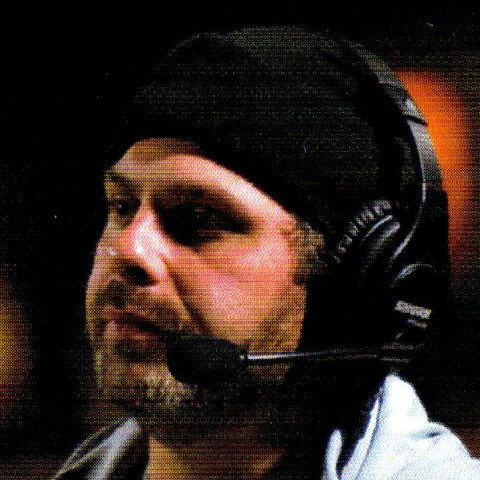
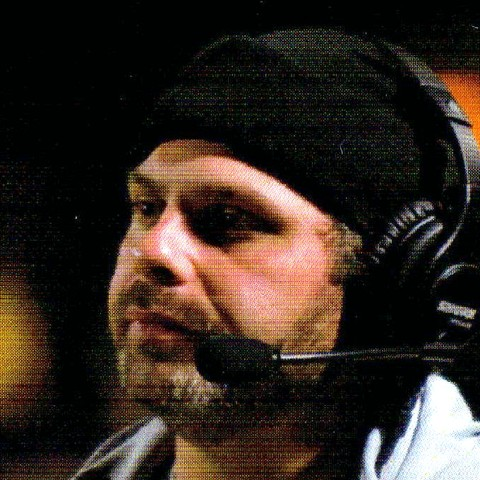
Fix coach photo crops; add Week 3 box score stats
Re-crop and re-correct Mulieri, Puleio, Stibitz, and DiStefano's headshots
on the BRHS Football hub — the first pass left eyes/face off-center at the
card's small display size, and Stibitz/DiStefano's night-game photos were
still too dark to read clearly. Recentered on the face and pushed exposure
further on the two dark ones; no elements or style added, correction only.

Also includes Week 3 (vs Hillsborough, W 40-14) box score stats in
lib/footballStats.js, sourced from NJRB's box score
(njrecordbook.com/football/game/18028/) per the file's established sourcing
pattern.

diff --git a/lib/footballStats.js b/lib/footballStats.js
@@ -19,10 +19,10 @@
 // real per-player SEASON-AGGREGATE stats for football, built from full
 // team box scores per game, the same way it already does for volleyball
 // (see VOLLEYBALL-SOURCES.md). Confirmed live and populated for the
-// 2026-27 season (2 games played) — this file's stats are now sourced
-// from NJRB's team page + its two individual game box scores
-// (njrecordbook.com/football/game/17644/ = Woodbridge, .../game/18005/ =
-// St. Joseph), not hand-curated "best line so far" or CJSR-only detail.
+// 2026-27 season — this file's stats are sourced from NJRB's team page +
+// its individual game box scores (njrecordbook.com/football/game/17644/ =
+// Woodbridge, .../game/18005/ = St. Joseph, .../game/18028/ = Hillsborough,
+// added 2026-09-14), not hand-curated "best line so far" or CJSR-only detail.
 //
 // TIER 1: every number is pulled from a published box score. NJRB is now
 // the season-aggregate source of record (full Passing/Rushing/Receiving/
@@ -58,48 +58,48 @@ export const TEAM_LEADERS_2026 = [
     category: 'Passing Yards',
     name: 'JB Baxter',
     number: 10,
-    value: '458',
-    detail: '31/57, 3 TD, 2 INT — 2 games (NJRB season total)',
+    value: '631',
+    detail: '53.5 comp%, 4 TD, 2 INT — 3 games (NJRB season total)',
     photo: '/photos/media-day-portraits/10.jpg',
   },
   {
     category: 'Rushing Yards',
     name: 'Jahmier Black',
     number: 11,
-    value: '286',
-    detail: '45 att, 5 TD, 6.4 YPC — 2 games',
+    value: '438',
+    detail: '67 att, 7 TD, 6.5 YPC — 3 games',
     photo: '/photos/media-day-portraits/11.jpg',
   },
   {
     category: 'Receiving Yards',
     name: 'Evan Woodring',
     number: 5,
-    value: '126',
-    detail: '7 rec, 1 TD — 2 games',
+    value: '189',
+    detail: '9 rec, 2 TD — 3 games',
     photo: '/photos/media-day-portraits/5.jpg',
   },
   {
     category: 'Tackles',
     name: 'Nick Crovelli',
     number: 27,
-    value: '22',
-    detail: '2 FF — 2 games',
+    value: '31',
+    detail: '1 FF — 3 games',
     photo: '/photos/media-day-portraits/27.jpg',
   },
   {
     category: 'Sacks',
-    name: 'Jamelle Jones',
-    number: 41,
+    name: 'Nick Crovelli',
+    number: 27,
     value: '1',
-    detail: '-8 yds, 3rd quarter — vs. Woodbridge',
-    photo: '/photos/media-day-portraits/41.jpg',
+    detail: 'Tied with Jamelle Jones (#41, Week 1 vs. Woodbridge) — NJRB names Crovelli as the season leader',
+    photo: '/photos/media-day-portraits/27.jpg',
   },
   {
     category: 'Interceptions',
     name: 'Evan Woodring',
     number: 5,
     value: '1',
-    detail: '0:51 into 1st quarter — vs. St. Joseph (Metuchen)',
+    detail: '0:51 into 1st quarter — vs. St. Joseph (Metuchen). Levash, Schwamberger and LoCrotondo each also have 1 on the season.',
     photo: '/photos/media-day-portraits/5.jpg',
   },
 ];
@@ -110,78 +110,96 @@ export const TEAM_LEADERS_2026 = [
 // re-pull this table directly from that page each sweep rather than
 // summing WEEKLY_BOX_SCORES_2026 by hand.
 export const SEASON_STATS_2026 = {
-  gamesPlayed: 2,
-  asOf: 'Sep 8, 2026 (through Week 2, at St. Joseph/Metuchen)',
+  gamesPlayed: 3,
+  asOf: 'Sep 14, 2026 (through Week 3, vs. Hillsborough)',
   source: { label: 'NJ Record Book — Team Stats', url: 'https://njrecordbook.com/football/bridgewater-raritan/' },
   passing: {
     columns: ['Player', 'GP', 'Comp %', 'Rating', 'Yds', 'TD', 'INT'],
     rows: [
-      { cells: ['J. Baxter (#10)', 2, '54.4', '83.8', 458, 3, 2] },
+      { cells: ['J. Baxter (#10)', 3, '53.5', '90.8', 631, 4, 2] },
+      { cells: ['E. Woodring (#5)', 3, '0.0', '39.6', 0, 0, 0] },
     ],
   },
   rushing: {
     columns: ['Player', 'GP', 'Att', 'Yds', 'TD', 'YPC'],
     rows: [
-      { cells: ['J. Black (#11)', 2, 45, 286, 5, '6.4'] },
-      { cells: ['J. Okolo', 2, 14, 44, 1, '3.1'] },
-      { cells: ['E. Woodring (#5)', 2, 6, 32, 0, '5.3'] },
-      { cells: ['J. Baxter (#10)', 2, 2, 18, 0, '9.0'] },
-      { cells: ['J. Baker', 1, 4, 13, 0, '3.3'] },
+      { cells: ['J. Black (#11)', 3, 67, 438, 7, '6.5'] },
+      { cells: ['J. Okolo', 3, 35, 132, 2, '3.8'] },
+      { cells: ['E. Woodring (#5)', 3, 9, 63, 1, '7.0'] },
+      { cells: ['J. Baxter (#10)', 3, 3, 26, 0, '8.7'] },
+      { cells: ['J. Baker', 2, 6, 18, 0, '3.0'] },
+      { cells: ['J. LoCrotondo', 3, 1, 1, 0, '1.0'] },
+      { cells: ['M. Cole', 1, 1, 0, 0, '0.0'] },
     ],
   },
   receiving: {
     columns: ['Player', 'GP', 'Rec', 'Yds', 'TD', 'Y/C'],
     rows: [
-      { cells: ['E. Woodring (#5)', 2, 7, 126, 1, '18.0'] },
-      { cells: ['D. Krizan', 2, 11, 123, 0, '11.2'] },
-      { cells: ['J. Winne', 2, 1, 64, 1, '64.0'] },
-      { cells: ['J. Schwamberger', 2, 1, 30, 1, '30.0'] },
-      { cells: ['J. LoCrotondo', 2, 1, 27, 0, '27.0'] },
-      { cells: ['B. Matos', 2, 2, 22, 0, '11.0'] },
-      { cells: ['J. Black (#11)', 2, 2, 20, 0, '10.0'] },
-      { cells: ['A. Lorino', 2, 3, 20, 0, '6.7'] },
-      { cells: ['J. Baker', 1, 1, 16, 0, '16.0'] },
-      { cells: ['J. Okolo', 2, 1, 6, 0, '6.0'] },
-      { cells: ['C. Rutherford', 2, 1, 4, 0, '4.0'] },
+      { cells: ['E. Woodring (#5)', 3, 9, 189, 2, '21.0'] },
+      { cells: ['D. Krizan', 3, 12, 156, 0, '13.0'] },
+      { cells: ['A. Lorino', 3, 6, 76, 0, '12.7'] },
+      { cells: ['J. Winne', 3, 1, 64, 1, '64.0'] },
+      { cells: ['J. Black (#11)', 3, 3, 41, 0, '13.7'] },
+      { cells: ['J. Schwamberger', 3, 1, 30, 1, '30.0'] },
+      { cells: ['J. LoCrotondo', 3, 1, 27, 0, '27.0'] },
+      { cells: ['B. Matos', 3, 2, 22, 0, '11.0'] },
+      { cells: ['J. Baker', 2, 1, 16, 0, '16.0'] },
+      { cells: ['J. Okolo', 3, 1, 6, 0, '6.0'] },
+      { cells: ['C. Rutherford', 3, 1, 4, 0, '4.0'] },
     ],
   },
   defense: {
     columns: ['Player', 'GP', 'Tkl', 'Sk', 'TFL', 'INT', 'FF', 'FR'],
     rows: [
-      { cells: ['N. Crovelli (#27)', 2, 22, 0, 2, 0, 1, 0] },
-      { cells: ['J. Black (#11)', 2, 14, 0, 5, 0, 0, 0] },
-      { cells: ['A. Lorino', 2, 11, 0, 1, 0, 0, 0] },
-      { cells: ['T. Levash', 2, 10, 0, 2, 1, 0, 0] },
-      { cells: ['J. Jones (#41)', 2, 9, 1, 2, 0, 0, 0] },
-      { cells: ['E. Woodring (#5)', 2, 8, 0, 1, 1, 0, 0] },
-      { cells: ['J. Okolo', 2, 8, 0, 0, 0, 0, 0] },
-      { cells: ['D. Krizan', 2, 7, 0, 0, 0, 0, 0] },
-      { cells: ['N. Zuckerman', 2, 7, 0, 0, 0, 0, 0] },
-      { cells: ['J. Markovitch', 2, 7, 0, 2, 0, 0, 1] },
-      { cells: ['J. Winne', 2, 6, 0, 0, 0, 0, 0] },
-      { cells: ['F. Schenk', 2, 6, 0, 0, 0, 0, 0] },
-      { cells: ['J. Schwamberger', 2, 5, 0, 0, 0, 0, 0] },
-      { cells: ['J. LoCrotondo', 2, 5, 0, 0, 1, 0, 0] },
+      { cells: ['N. Crovelli (#27)', 3, 31, 1, 4, 0, 1, 0] },
+      { cells: ['A. Lorino', 3, 16, 0, 2, 0, 0, 0] },
+      { cells: ['J. Black (#11)', 3, 15, 0, 5, 0, 0, 0] },
+      { cells: ['T. Levash', 3, 13, 0, 4, 1, 0, 0] },
+      { cells: ['J. Jones (#41)', 3, 12, 1, 3, 0, 0, 0] },
+      { cells: ['J. Markovitch', 3, 10, 0, 2, 0, 0, 1] },
+      { cells: ['E. Woodring (#5)', 3, 9, 0, 1, 1, 0, 0] },
+      { cells: ['J. Okolo', 3, 9, 0, 0, 0, 0, 0] },
+      { cells: ['J. Winne', 3, 9, 0, 0, 0, 0, 0] },
+      { cells: ['N. Zuckerman', 3, 9, 0, 0, 0, 0, 0] },
+      { cells: ['F. Schenk', 3, 9, 0, 0, 0, 0, 0] },
+      { cells: ['D. Krizan', 3, 8, 0, 0, 0, 0, 0] },
+      { cells: ['J. Schwamberger', 3, 6, 0, 0, 1, 0, 0] },
+      { cells: ['J. LoCrotondo', 3, 6, 0, 1, 1, 0, 0] },
+      { cells: ['J. Baker', 2, 5, 0, 0, 0, 0, 0] },
+      { cells: ['J. Madsen', 1, 5, 0, 0, 0, 0, 0] },
+      { cells: ['B. Matos', 3, 4, 0, 0, 0, 0, 0] },
+      { cells: ['M. Dorsey', 1, 3, 0, 0, 0, 0, 0] },
+      { cells: ['D. Markovitch', 2, 3, 0, 0, 0, 0, 0] },
+      { cells: ['R. Matos', 1, 2, 0, 0, 0, 0, 0] },
+      { cells: ['C. Rutherford', 3, 2, 0, 0, 0, 0, 0] },
+      { cells: ['S. Risco', 2, 2, 0, 0, 0, 0, 1] },
+      { cells: ['A. Zimmerman', 2, 2, 0, 0, 0, 0, 0] },
+      { cells: ['J. Lavender', 1, 2, 0, 0, 0, 0, 0] },
+      { cells: ['A. Arndt', 1, 1, 0, 0, 0, 0, 0] },
+      { cells: ['Z. Rinehimer', 1, 1, 0, 0, 0, 0, 0] },
+      { cells: ['N. Bogolashvili', 2, 1, 0, 0, 0, 0, 0] },
+      { cells: ['T. Thiry', 1, 1, 0, 0, 0, 0, 0] },
     ],
   },
   returning: {
     columns: ['Player', 'GP', 'KR Att', 'KR Yds', 'PR Att', 'PR Yds'],
     rows: [
-      { cells: ['D. Krizan', 2, 5, 135, 0, 0] },
-      { cells: ['J. LoCrotondo', 2, 1, 14, 0, 0] },
-      { cells: ['E. Woodring (#5)', 2, 0, 0, 1, 9] },
+      { cells: ['D. Krizan', 3, 5, 135, 0, 0] },
+      { cells: ['B. Matos', 3, 1, 15, 0, 0] },
+      { cells: ['J. LoCrotondo', 3, 1, 14, 0, 0] },
+      { cells: ['E. Woodring (#5)', 3, 0, 0, 2, 18] },
     ],
   },
   kicking: {
     columns: ['Player', 'GP', 'FGM', 'FGA', 'XPM', 'XPA'],
     rows: [
-      { cells: ['P. Lyons', 2, 0, 0, 8, 8] },
+      { cells: ['P. Lyons', 3, 0, 0, 10, 11] },
     ],
   },
   punting: {
     columns: ['Player', 'GP', 'Punts', 'Yds', 'Avg', 'Long'],
     rows: [
-      { cells: ['J. Winne', 2, 8, 265, '33.1', 46] },
+      { cells: ['J. Winne', 3, 9, 294, '32.7', 46] },
     ],
   },
 };
@@ -318,6 +336,69 @@ export const WEEKLY_BOX_SCORES_2026 = [
     sources: [
       { label: 'NJ Record Book (box score)', url: 'https://njrecordbook.com/football/game/18005/' },
       { label: 'CJ Sports Radio', url: 'https://cjsportsradio.com/2026/09/05/no-2-st-joseph-metuchen-takes-lead-early-lead-then-rallies-for-43-36-win-over-no-6-bridgewater-raritan/' },
+    ],
+  },
+  // Week 3 added 2026-09-14 sweep, sourced entirely from NJRB's box score
+  // (njrecordbook.com/football/game/18028/) — no CJSR/TAPinto/MyCentralJersey
+  // recap had published as of this pull (checked all three; none had a
+  // Hillsborough writeup yet), so there's no play-by-play narrative source
+  // to fold in this time, unlike Weeks 1-2. SI's Sep 11 NJ scores roundup
+  // independently corroborates the 40-14 final only (no player detail).
+  //
+  // Notable: NJRB's box score credits BR with 1 total interception this
+  // game, attributed to Jasper Schwamberger, AND flags it via a separate
+  // "INT/TD" column value of 1 — i.e. an interception return for a
+  // touchdown. The final-score math checks out for this: BR's 5 offensive
+  // TDs (4 rushing: Black x2, Okolo, Woodring; 1 passing: Woodring) + 2 XP
+  // + 1 two-point conversion = 34, and 34 + 6 (the extra TD) = 40, BR's
+  // actual final score — so a 6th, non-offensive TD is real, not a parsing
+  // artifact. Reported here as NJRB presents it; no press recap exists yet
+  // to independently confirm which player scored or the play detail — flag
+  // for next sweep to corroborate once one publishes.
+  {
+    week: 'Week 3',
+    opponent: 'vs Hillsborough',
+    date: 'Sep 11, 2026',
+    result: 'W, 40-14',
+    categories: [
+      {
+        label: 'Passing',
+        columns: ['Player', 'C/ATT', 'Yds', 'TD', 'INT'],
+        rows: [
+          { cells: ['JB Baxter (#10)', '7/14', 173, 1, 0] },
+        ],
+      },
+      {
+        label: 'Rushing',
+        columns: ['Player', 'Yds', 'TD'],
+        rows: [
+          { cells: ['Jahmier Black (#11)', 152, 2] },
+          { cells: ['Jonathan Okolo', 88, 1] },
+          { cells: ['Evan Woodring (#5)', 31, 1] },
+        ],
+      },
+      {
+        label: 'Receiving',
+        columns: ['Player', 'Yds', 'TD'],
+        rows: [
+          { cells: ['Evan Woodring (#5)', 63, 1] },
+          { cells: ['Anthony Lorino', 56, 0] },
+          { cells: ['DJ Krizan', 33, 0] },
+          { cells: ['Jahmier Black (#11)', 21, 0] },
+        ],
+      },
+      {
+        label: 'Defense',
+        columns: ['Player', 'Notes'],
+        rows: [
+          { cells: ['Nick Crovelli (#27)', '9 tackles, 1 sack, 2 TFL'] },
+          { cells: ['Jasper Schwamberger', "BR's lone INT of the game — NJRB's box score also flags it as returned for a touchdown (not yet detailed in any press recap)"] },
+        ],
+      },
+    ],
+    sources: [
+      { label: 'NJ Record Book (box score)', url: 'https://njrecordbook.com/football/game/18028/' },
+      { label: 'SI — Sep 11 NJ high school football final scores', url: 'https://www.si.com/high-school/new-jersey/new-jersey-high-school-football-final-scores-september-11-01m29zf9cqxw' },
     ],
   },
 ];
